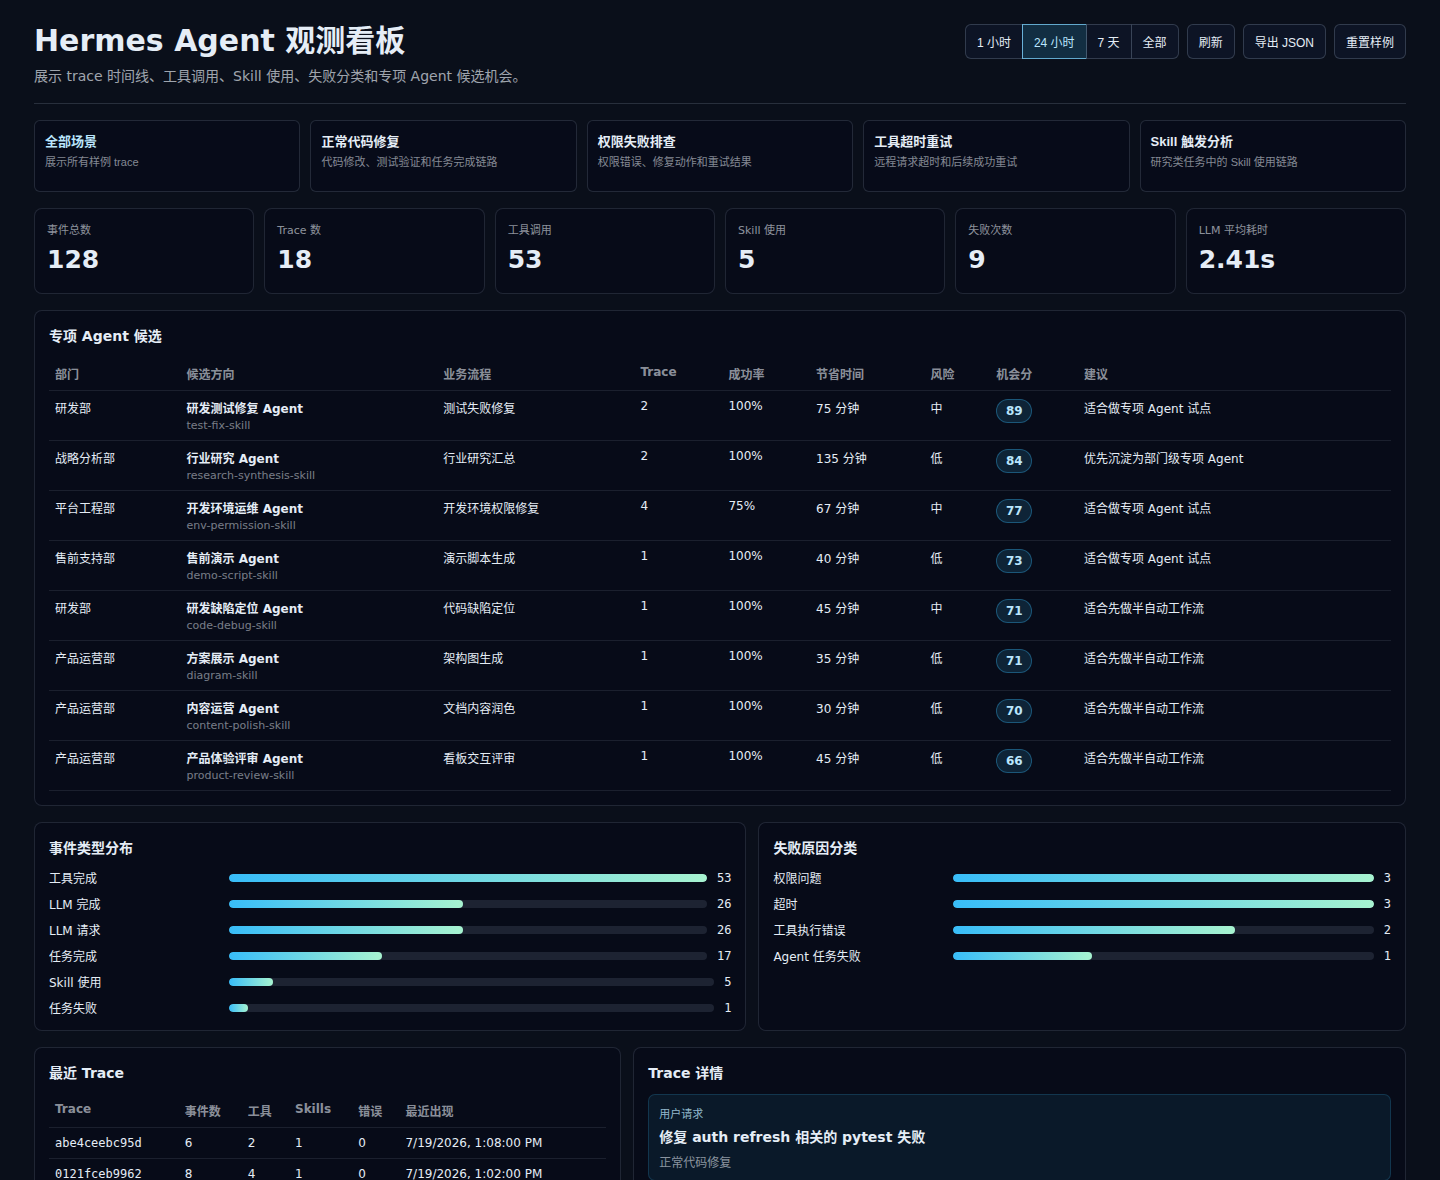
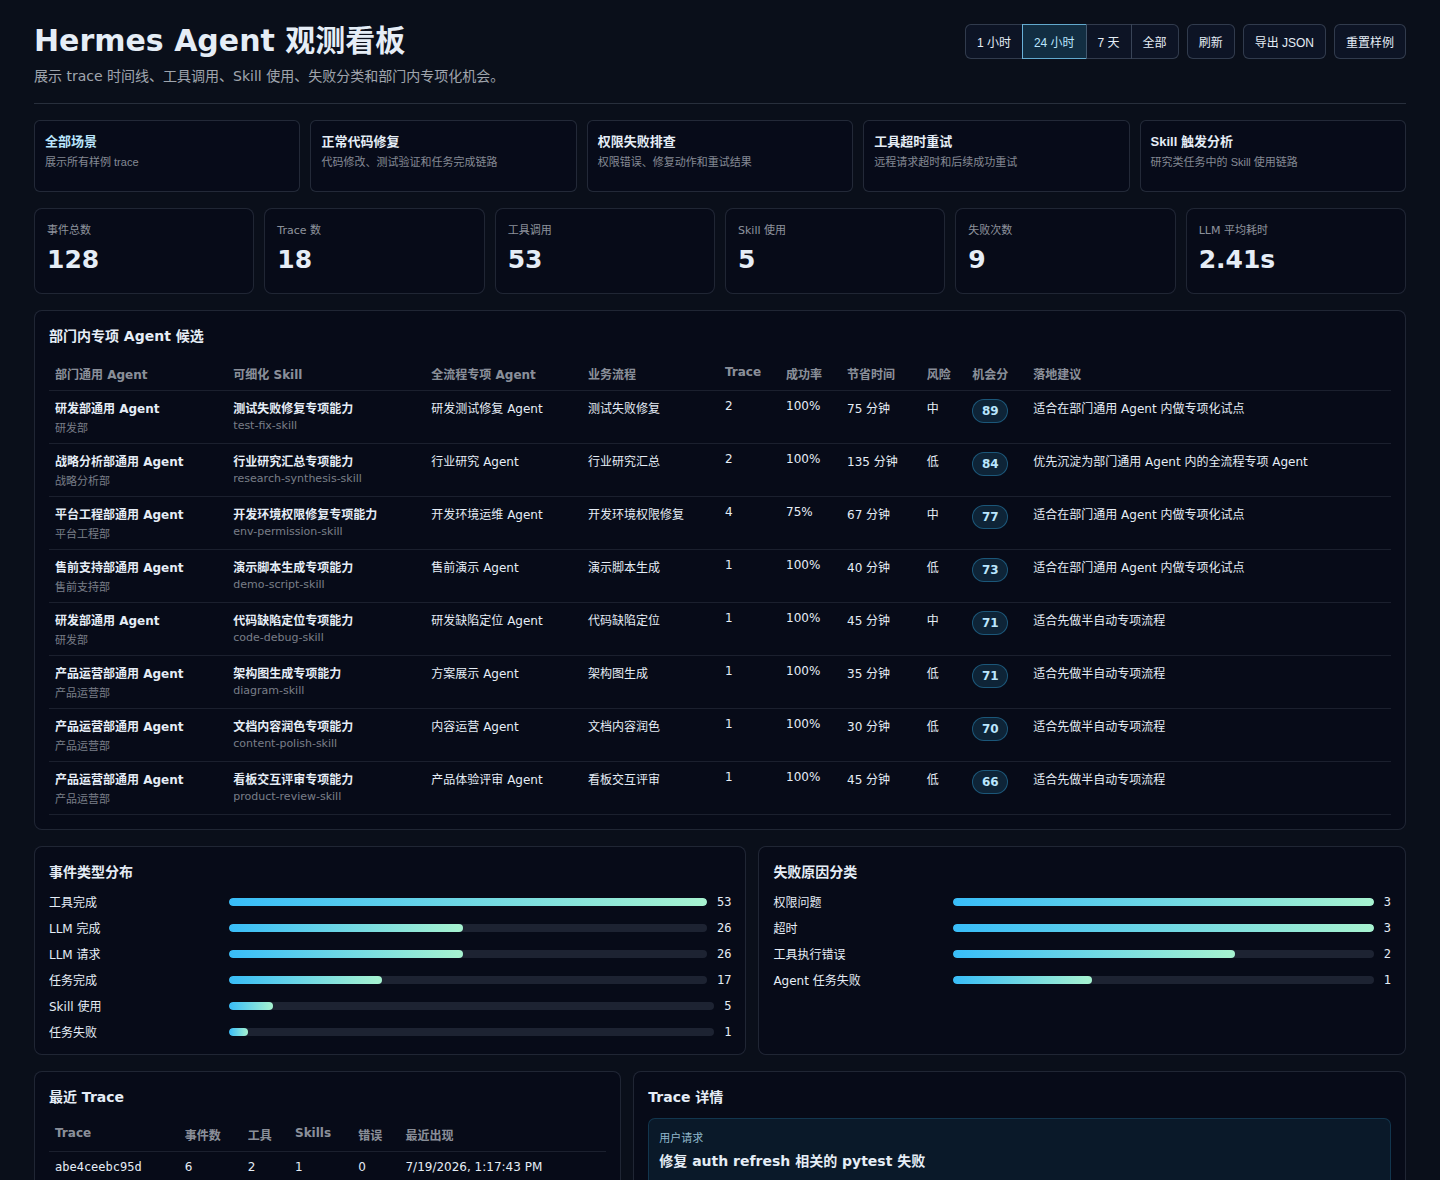
align opportunities with department agents

diff --git a/dashboard/app.js b/dashboard/app.js
@@ -217,14 +217,18 @@
   }
 
   function opportunityTable(rows) {
-    if (!rows || !rows.length) return `<div class="empty">暂无专项 Agent 候选。</div>`;
-    return `<table class="clickable opportunity-table"><thead><tr><th>部门</th><th>候选方向</th><th>业务流程</th><th>Trace</th><th>成功率</th><th>节省时间</th><th>风险</th><th>机会分</th><th>建议</th></tr></thead><tbody>
+    if (!rows || !rows.length) return `<div class="empty">暂无部门内专项化候选。</div>`;
+    return `<table class="clickable opportunity-table"><thead><tr><th>部门通用 Agent</th><th>可细化 Skill</th><th>全流程专项 Agent</th><th>业务流程</th><th>Trace</th><th>成功率</th><th>节省时间</th><th>风险</th><th>机会分</th><th>落地建议</th></tr></thead><tbody>
       ${rows.map((row) => `<tr data-trace-id="${escapeHtml(row.primary_trace_id)}">
-        <td>${escapeHtml(row.department_label)}</td>
         <td>
-          <strong>${escapeHtml(row.agent_candidate)}</strong>
+          <strong>${escapeHtml(row.department_agent || row.department_label)}</strong>
+          <small>${escapeHtml(row.department_label)}</small>
+        </td>
+        <td>
+          <strong>${escapeHtml(row.capability_candidate || row.workflow_label)}</strong>
           <small>${escapeHtml(row.candidate_skill)}</small>
         </td>
+        <td>${escapeHtml(row.specialized_agent_candidate || row.agent_candidate)}</td>
         <td>${escapeHtml(row.workflow_label)}</td>
         <td>${fmtNumber(row.trace_count)}</td>
         <td>${fmtPercent(row.success_rate)}</td>
@@ -292,10 +296,11 @@
         <ul>${story.next_actions.map((action) => `<li>${escapeHtml(action)}</li>`).join("")}</ul>
       </div>` : ""}
       ${opportunity.agent_candidate ? `<div class="trace-opportunity">
-        <span>专项 Agent 判断</span>
+        <span>部门内专项化判断</span>
         <strong>${escapeHtml(opportunity.recommendation)}</strong>
         <div class="opportunity-meta">
-          <b>${escapeHtml(opportunity.department_label)}</b>
+          <b>${escapeHtml(opportunity.department_agent || opportunity.department_label)}</b>
+          <b>${escapeHtml(opportunity.capability_candidate || opportunity.candidate_skill)}</b>
           <b>${escapeHtml(opportunity.workflow_label)}</b>
           <b>自动化适配：${escapeHtml(opportunity.automation_fit_label)}</b>
           <b>风险：${escapeHtml(opportunity.risk_label)}</b>
@@ -340,7 +345,7 @@
       <header class="hero">
         <div>
           <h1>Hermes Agent 观测看板</h1>
-          <p class="subtitle">展示 trace 时间线、工具调用、Skill 使用、失败分类和专项 Agent 候选机会。</p>
+          <p class="subtitle">展示 trace 时间线、工具调用、Skill 使用、失败分类和部门内专项化机会。</p>
         </div>
         <div class="actions">
           <div class="ranges">${ranges.map(([key, label]) => `<button data-range="${key}" class="${state.range === key ? "active" : ""}">${label}</button>`).join("")}</div>
@@ -366,7 +371,7 @@
         ${kpi("LLM 平均耗时", fmtMs(totals.avg_llm_ms))}
       </section>
       <section class="single">
-        ${panel("专项 Agent 候选", opportunityTable(data.opportunities))}
+        ${panel("部门内专项 Agent 候选", opportunityTable(data.opportunities))}
       </section>
       <section class="grid">
         ${panel("事件类型分布", bars(data.event_types, "name", (row) => eventLabel(row.name)))}

diff --git a/server/main.py b/server/main.py
@@ -386,13 +386,19 @@ def _business_context(row: dict[str, Any]) -> dict[str, Any]:
     else:
         fallback = (scenario or "unknown", "未归属部门", scenario or "unknown", "未归属流程", "unknown-skill", "待评估专项 Agent")
 
+    department_label = str(payload.get("department_label") or fallback[1])
+    workflow_label = str(payload.get("workflow_label") or fallback[3])
+    agent_candidate = str(payload.get("agent_candidate") or fallback[5])
     return {
         "department": str(payload.get("department") or fallback[0]),
-        "department_label": str(payload.get("department_label") or fallback[1]),
+        "department_label": department_label,
+        "department_agent": str(payload.get("department_agent") or f"{department_label}通用 Agent"),
         "workflow": str(payload.get("workflow") or fallback[2]),
-        "workflow_label": str(payload.get("workflow_label") or fallback[3]),
+        "workflow_label": workflow_label,
         "candidate_skill": str(payload.get("candidate_skill") or fallback[4]),
-        "agent_candidate": str(payload.get("agent_candidate") or fallback[5]),
+        "capability_candidate": str(payload.get("capability_candidate") or f"{workflow_label}专项能力"),
+        "agent_candidate": agent_candidate,
+        "specialized_agent_candidate": str(payload.get("specialized_agent_candidate") or agent_candidate),
         "estimated_manual_minutes": _payload_int(payload.get("estimated_manual_minutes"), 20),
         "human_intervention": _payload_bool(payload.get("human_intervention")),
         "automation_fit": str(payload.get("automation_fit") or "medium"),
@@ -414,12 +420,12 @@ def _risk_label(risk_level: str) -> str:
 
 def _opportunity_recommendation(score: int, risk_level: str, human_rate: float) -> str:
     if score >= 82 and risk_level == "low":
-        return "优先沉淀为部门级专项 Agent"
+        return "优先沉淀为部门通用 Agent 内的全流程专项 Agent"
     if score >= 72:
-        return "适合做专项 Agent 试点"
+        return "适合在部门通用 Agent 内做专项化试点"
     if score >= 58 or human_rate > 0.35:
-        return "适合先做半自动工作流"
-    return "继续观察，先补工具和结构化数据"
+        return "适合先做半自动专项流程"
+    return "继续观察，先补齐工具链和结构化数据"
 
 
 def _automation_opportunities(
@@ -485,10 +491,13 @@ def _automation_opportunities(
             {
                 "department": trace["department"],
                 "department_label": trace["department_label"],
+                "department_agent": trace["department_agent"],
                 "workflow": trace["workflow"],
                 "workflow_label": trace["workflow_label"],
                 "candidate_skill": trace["candidate_skill"],
+                "capability_candidate": trace["capability_candidate"],
                 "agent_candidate": trace["agent_candidate"],
+                "specialized_agent_candidate": trace["specialized_agent_candidate"],
                 "risk_level": trace["risk_level"],
                 "automation_fit": trace["automation_fit"],
                 "trace_count": 0,
@@ -555,6 +564,10 @@ def _automation_opportunities(
             f"{trace_count} 条 trace，成功率 {round(success_rate * 100)}%，"
             f"预计节省 {group['estimated_saved_minutes']} 分钟。"
         )
+        group["positioning"] = (
+            f"在「{group['department_agent']}」内部，把「{group['capability_candidate']}」"
+            f"细化成「{group['specialized_agent_candidate']}」。"
+        )
         opportunities.append(group)
 
     return sorted(
@@ -573,8 +586,8 @@ def _trace_automation_opportunity(rows: list[dict[str, Any]], failures: list[dic
         "risk_label": _risk_label(context["risk_level"]),
         "automation_fit_label": fit_text,
         "recommendation": (
-            f"归属「{context['department_label']} / {context['workflow_label']}」，"
-            f"候选方向是「{context['agent_candidate']}」，{status_text}。"
+            f"归属「{context['department_agent']}」，可把「{context['capability_candidate']}」"
+            f"细化为「{context['specialized_agent_candidate']}」，{status_text}。"
         ),
     }
 

diff --git a/collector/store.py b/collector/store.py
@@ -821,4 +821,10 @@ def _business_context(task_id: str, scenario: str) -> dict[str, Any]:
         "automation_fit": "medium",
         "risk_level": "medium",
     }
-    return contexts.get(task_id, fallback)
+    context = dict(contexts.get(task_id, fallback))
+    context["department_agent"] = context.get("department_agent") or f"{context['department_label']}通用 Agent"
+    context["capability_candidate"] = context.get("capability_candidate") or f"{context['workflow_label']}专项能力"
+    context["specialized_agent_candidate"] = (
+        context.get("specialized_agent_candidate") or context["agent_candidate"]
+    )
+    return context

diff --git a/tests/test_dashboard_api.py b/tests/test_dashboard_api.py
@@ -51,6 +51,8 @@ def test_trace_detail_returns_timeline(monkeypatch, tmp_path):
     assert detail["summary"]["story"]["summary"]
     assert "规划" in detail["summary"]["story"]["phases"]
     assert detail["summary"]["automation_opportunity"]["agent_candidate"]
+    assert detail["summary"]["automation_opportunity"]["department_agent"]
+    assert detail["summary"]["automation_opportunity"]["capability_candidate"]
 
 
 def test_range_filter_and_export(monkeypatch, tmp_path):
@@ -132,7 +134,10 @@ def test_automation_opportunities_rank_department_agent_candidates(monkeypatch, 
     )
 
     assert engineering["agent_candidate"] == "研发测试修复 Agent"
+    assert engineering["department_agent"] == "研发部通用 Agent"
+    assert engineering["capability_candidate"] == "测试失败修复专项能力"
+    assert engineering["specialized_agent_candidate"] == "研发测试修复 Agent"
     assert engineering["trace_count"] >= 2
     assert engineering["estimated_saved_minutes"] >= 70
-    assert engineering["recommendation"]
+    assert "部门通用 Agent" in engineering["recommendation"]
     assert engineering["primary_trace_id"]

diff --git a/README.md b/README.md
@@ -1,6 +1,6 @@
 # Hermes Agent 观测看板
 
-一个独立的 Agent Observability 作品集 demo：展示 trace 时间线、工具调用、Skill 使用、失败分类、专项 Agent 候选分析、本地存储和可导出的运行事件。
+一个独立的 Agent Observability 作品集 demo：展示 trace 时间线、工具调用、Skill 使用、失败分类、部门内专项化分析、本地存储和可导出的运行事件。
 
 这个项目是从真实 Hermes Agent 插件中抽出来的独立展示版。Hermes 分支负责说明“如何接入真实 Agent 运行时”，这个仓库负责提供“打开就能看的作品集 demo”。
 
@@ -15,9 +15,9 @@ Agent 系统经常像黑盒。用户只能看到最终回答，但看不到：
 - 延迟耗在哪里
 - 任务为什么失败
 - 修改 prompt、tool 或 skill 后效果有没有变好
-- 哪些部门场景值得沉淀成专项 Agent
+- 部门通用 Agent 内部哪些 Skill 值得细化成全流程专项 Agent
 
-这个项目把 Agent 的运行步骤抽象成结构化事件，并通过本地看板展示出来，形成一个小而完整的分析闭环。除了排查失败，它也用运行数据判断哪些 Skill/流程值得下钻到具体部门，进一步产品化成专项 Agent。
+这个项目把 Agent 的运行步骤抽象成结构化事件，并通过本地看板展示出来，形成一个小而完整的分析闭环。除了排查失败，它也用运行数据分析部门通用 Agent 内部哪些 Skill/流程值得进一步细化，产品化成更精细的全流程专项 Agent。
 
 ## 架构图
 
@@ -26,7 +26,7 @@ flowchart LR
   A["Agent hooks<br/>LLM / Tool / Skill / Task"] --> B["Event Store<br/>JSONL + SQLite"]
   B --> C["Analytics API<br/>聚合统计 / Trace 详情 / 导出"]
   C --> D["Dashboard<br/>场景筛选 / 时间线 / 失败分类"]
-  D --> E["Opportunity Analysis<br/>部门 / 流程 / 专项 Agent 候选"]
+  D --> E["Opportunity Analysis<br/>部门通用 Agent / Skill / 专项化候选"]
   E --> F["Optimization Loop<br/>定位问题 -> 修改 Agent -> 对比结果"]
   F --> A
 ```
@@ -37,9 +37,9 @@ flowchart LR
 
 我的做法是在 Agent 的 LLM、Tool、Skill 和任务结果 hook 上采集结构化事件，用 `trace_id` 把一次用户请求串成完整链路。事件同时写入 JSONL 和 SQLite：JSONL 方便导出，SQLite 方便本地分析 API 查询。
 
-看板侧我做了整体 KPI、场景筛选、trace 时间线、用户请求摘要、任务故事归纳、失败原因分类和优化建议。进一步，我给每条 trace 补了部门、业务流程、候选 Skill、预计人工耗时和风险等级，用这些数据计算“专项 Agent 机会分”，判断哪些部门流程值得优先自动化。
+看板侧我做了整体 KPI、场景筛选、trace 时间线、用户请求摘要、任务故事归纳、失败原因分类和优化建议。进一步，我给每条 trace 补了部门通用 Agent、业务流程、可细化 Skill、预计人工耗时和风险等级，用这些数据计算“专项化机会分”。
 
-所以面试演示时可以从一条失败 trace 讲到修复建议，也可以从“专项 Agent 候选”讲到业务决策：哪些 Skill 不是只被调用过，而是真的高频、可复用、风险可控，值得下到研发、平台、数据运营等部门做专项 Agent。
+这里的假设不是“一个通用 Agent 给所有部门用”，而是每个部门都有自己的部门通用 Agent。看板要回答的是：在某个部门通用 Agent 内部，哪些 Skill 不是只被调用过，而是真的高频、可复用、风险可控，值得细化成全流程专项 Agent。
 
 ## 功能
 
@@ -55,7 +55,7 @@ flowchart LR
 - Tool 性能表
 - Skill 使用表
 - 失败原因分类与优化建议
-- 专项 Agent 候选：按部门、业务流程、成功率、人工节省时间和风险计算机会分
+- 部门内专项 Agent 候选：按部门通用 Agent、Skill、业务流程、成功率、人工节省时间和风险计算机会分
 - 网页直接下载 JSON 导出文件
 
 ## 快速启动
@@ -103,9 +103,12 @@ payload
 
 ```text
 department / department_label
+department_agent
 workflow / workflow_label
 candidate_skill
+capability_candidate
 agent_candidate
+specialized_agent_candidate
 estimated_manual_minutes
 human_intervention
 automation_fit
@@ -145,7 +148,7 @@ POST /api/demo/reset
 -> 查看整体健康度
 -> 打开失败或慢 trace
 -> 定位 tool、skill、prompt 或权限问题
--> 判断部门级专项 Agent 候选
+-> 判断部门通用 Agent 内部的专项化候选
 -> 修改 Agent 行为
 -> 对比下一次运行结果
 ```